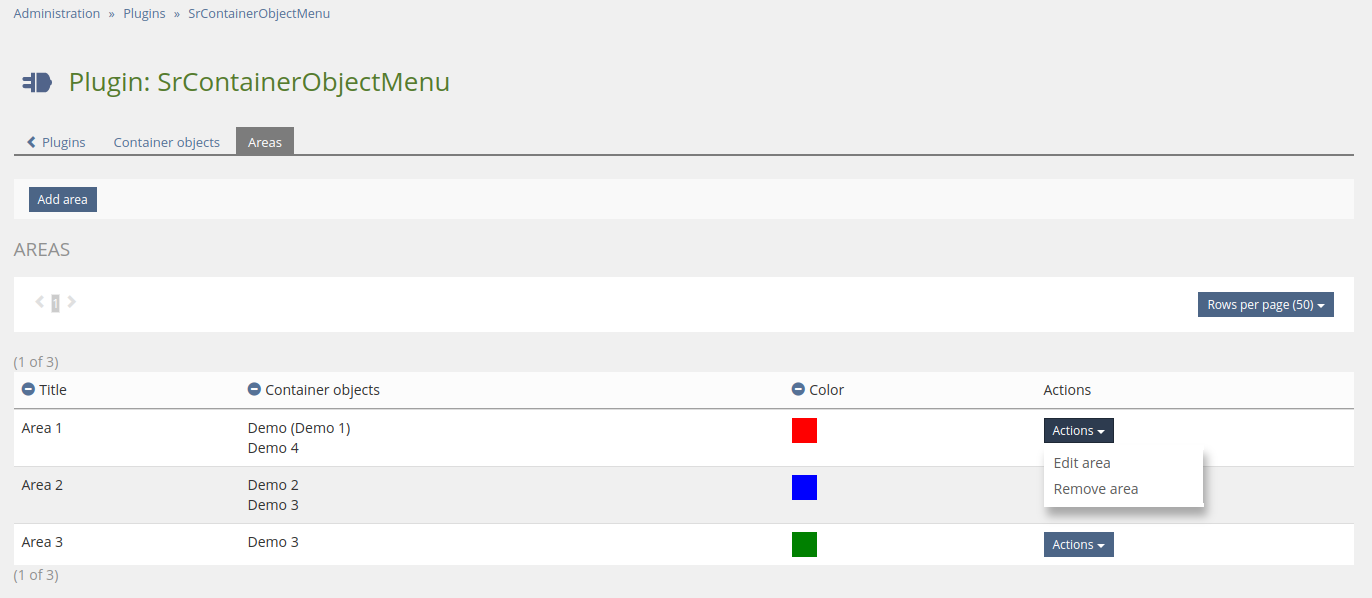
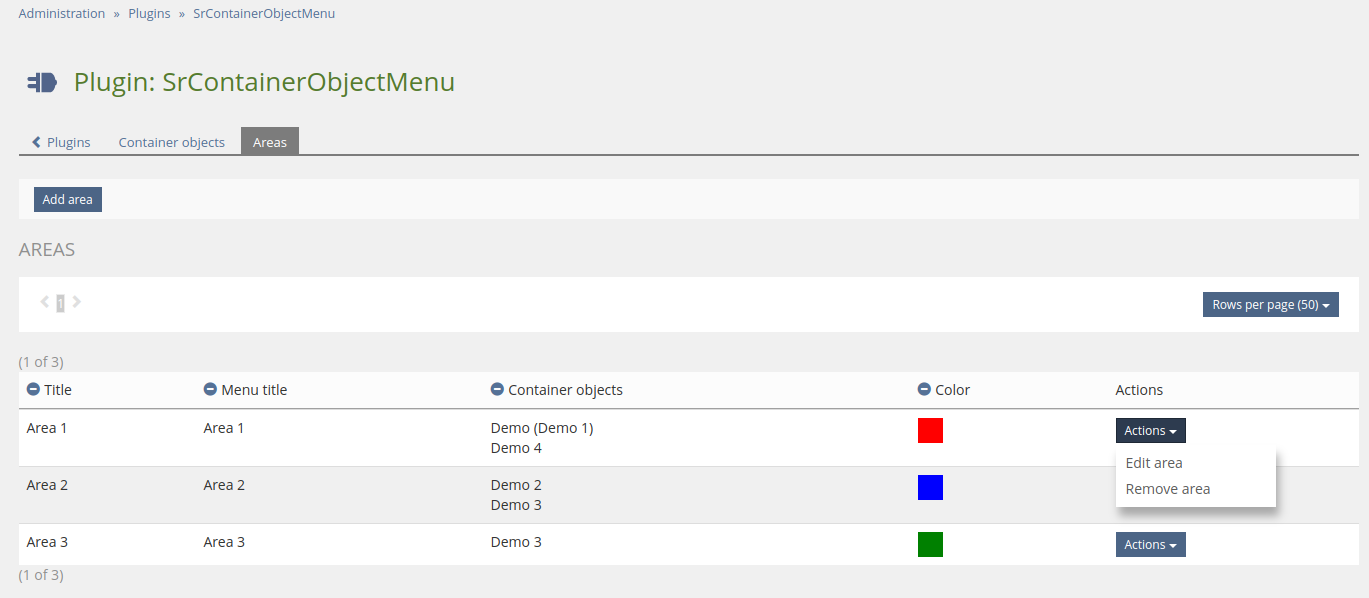
Show menu title of area in table

diff --git a/src/ContainerObject/Form/class.FormBuilder.php b/src/ContainerObject/Form/class.FormBuilder.php
@@ -3,6 +3,8 @@
 namespace srag\Plugins\SrContainerObjectMenu\ContainerObject\Form;
 
 use ilAdministrationGUI;
+use ilDBConstants;
+use ilMMTopItemGUI;
 use ilNonEditableValueGUI;
 use ilObjMainMenuGUI;
 use ilRepositorySelector2InputGUI;
@@ -58,12 +60,17 @@ class FormBuilder extends AbstractFormBuilder
     public function render() : string
     {
         if (!empty($this->container_object->getContainerObjectId())) {
-            self::dic()->ctrl()->setParameterByClass(ilObjMainMenuGUI::class, "ref_id", 69);
+            self::dic()
+                ->ctrl()
+                ->setParameterByClass(ilObjMainMenuGUI::class, "ref_id",
+                    self::dic()->database()->queryF('SELECT ref_id FROM object_data INNER JOIN object_reference ON object_data.obj_id=object_reference.obj_id WHERE type=%s',
+                        [ilDBConstants::T_TEXT], ["mme"])->fetchAssoc()["ref_id"]);
 
             $this->messages[] = self::dic()->ui()->factory()->messageBox()->info(self::plugin()->translate("info", ContainerObjectsCtrl::LANG_MODULE, [
                 self::output()->getHTML(self::dic()->ui()->factory()->link()->standard(self::dic()->language()->txt("obj_mme"), self::dic()->ctrl()->getLinkTargetByClass([
                     ilAdministrationGUI::class,
-                    ilObjMainMenuGUI::class
+                    ilObjMainMenuGUI::class,
+                    ilMMTopItemGUI::class
                 ])))
             ]));
         }
@@ -125,7 +132,7 @@ class FormBuilder extends AbstractFormBuilder
 
         $fields["areas"] = new InputGUIWrapperUIInputComponent(new MultiSelectSearchNewInputGUI(self::plugin()->translate("areas", AreasCtrl::LANG_MODULE)));
         $fields["areas"]->getInput()->setOptions(array_reduce(self::srContainerObjectMenu()->areas()->getAreas(), function (array $areas, Area $area) : array {
-            $areas[$area->getAreaId()] = $area->getTitle();
+            $areas[$area->getAreaId()] = $area->getTitle2();
 
             return $areas;
         }, []));

diff --git a/src/Area/Area.php b/src/Area/Area.php
@@ -5,6 +5,7 @@ namespace srag\Plugins\SrContainerObjectMenu\Area;
 use ActiveRecord;
 use arConnector;
 use ILIAS\UI\Component\Component;
+use ilMMItemFacadeInterface;
 use ilSrContainerObjectMenuPlugin;
 use srag\CustomInputGUIs\SrContainerObjectMenu\TabsInputGUI\MultilangualTabsInputGUI;
 use srag\DIC\SrContainerObjectMenu\DICTrait;
@@ -75,6 +76,17 @@ class Area extends ActiveRecord
     public static function returnDbTableName() : string
     {
         return self::TABLE_NAME;
+    }
+
+
+    /**
+     * @param int|null $position
+     *
+     * @return int
+     */
+    public function calcPosition(/*?*/ int $position = null) : int
+    {
+        return self::srContainerObjectMenu()->areas()->calcPosition($this, $position);
     }
 
 
@@ -230,6 +242,24 @@ class Area extends ActiveRecord
 
 
     /**
+     * @return ilMMItemFacadeInterface|null
+     */
+    public function getMenuItem()/* : ?ilMMItemFacadeInterface*/
+    {
+        return self::srContainerObjectMenu()->menu()->getBaseMenuItem($this->getMenuIdentifier($this->calcPosition()));
+    }
+
+
+    /**
+     * @return string
+     */
+    public function getMenuTitle() : string
+    {
+        return (($menu_item = $this->getMenuItem()) !== null ? $menu_item->getDefaultTitle() : "");
+    }
+
+
+    /**
      * @param string|null $lang_key
      * @param bool        $use_default_if_not_set
      *
@@ -238,6 +268,21 @@ class Area extends ActiveRecord
     public function getTitle(/*?*/ string $lang_key = null, bool $use_default_if_not_set = true) : string
     {
         return strval(MultilangualTabsInputGUI::getValueForLang($this->titles, $lang_key, "title", $use_default_if_not_set));
+    }
+
+
+    /**
+     * @return string
+     */
+    public function getTitle2() : string
+    {
+        $title = $this->getTitle();
+
+        if (!empty($menu_title = $this->getMenuTitle()) && $menu_title !== $title) {
+            $title .= " (" . $menu_title . ")";
+        }
+
+        return $title;
     }
 
 

diff --git a/src/Area/Form/FormBuilder.php b/src/Area/Form/FormBuilder.php
@@ -2,6 +2,10 @@
 
 namespace srag\Plugins\SrContainerObjectMenu\Area\Form;
 
+use ilAdministrationGUI;
+use ilDBConstants;
+use ilMMSubItemGUI;
+use ilObjMainMenuGUI;
 use ilSrContainerObjectMenuPlugin;
 use ilTextInputGUI;
 use srag\CustomInputGUIs\SrContainerObjectMenu\ColorPickerInputGUI\ColorPickerInputGUI;
@@ -47,6 +51,31 @@ class FormBuilder extends AbstractFormBuilder
         $this->area = $area;
 
         parent::__construct($parent);
+    }
+
+
+    /**
+     * @inheritDoc
+     */
+    public function render() : string
+    {
+        if (!empty($this->area->getAreaId())) {
+            self::dic()
+                ->ctrl()
+                ->setParameterByClass(ilObjMainMenuGUI::class, "ref_id",
+                    self::dic()->database()->queryF('SELECT ref_id FROM object_data INNER JOIN object_reference ON object_data.obj_id=object_reference.obj_id WHERE type=%s',
+                        [ilDBConstants::T_TEXT], ["mme"])->fetchAssoc()["ref_id"]);
+
+            $this->messages[] = self::dic()->ui()->factory()->messageBox()->info(self::plugin()->translate("info", ContainerObjectsCtrl::LANG_MODULE, [
+                self::output()->getHTML(self::dic()->ui()->factory()->link()->standard(self::dic()->language()->txt("obj_mme"), self::dic()->ctrl()->getLinkTargetByClass([
+                    ilAdministrationGUI::class,
+                    ilObjMainMenuGUI::class,
+                    ilMMSubItemGUI::class
+                ])))
+            ]));
+        }
+
+        return parent::render();
     }
 
 

diff --git a/src/Area/Repository.php b/src/Area/Repository.php
@@ -33,6 +33,10 @@ final class Repository
      */
     protected $areas_by_id = [];
     /**
+     * @var int[]
+     */
+    protected $calc_positions = [];
+    /**
      * @var string[]
      */
     protected $menu_identifiers = [];
@@ -61,6 +65,28 @@ final class Repository
 
 
     /**
+     * @param Area     $area
+     * @param int|null $position
+     *
+     * @return int
+     */
+    public function calcPosition(Area $area,/*?*/ int $position = null) : int
+    {
+        if ($this->calc_positions[$area->getAreaId()] === null) {
+            if ($position === null) {
+                $position = intval(key(array_filter($this->getAreas(), function (Area $area_) use ($area) : bool {
+                    return ($area_->getAreaId() === $area->getAreaId());
+                })));
+            }
+
+            $this->calc_positions[$area->getAreaId()] = (($position + 1) * 10);
+        }
+
+        return $this->calc_positions[$area->getAreaId()];
+    }
+
+
+    /**
      * @param Area $area
      */
     public function deleteArea(Area $area)/* : void*/
@@ -85,6 +111,7 @@ final class Repository
 
         unset($this->areas_by_id[$area->getAreaId()]);
         $this->areas = [];
+        $this->calc_positions = [];
     }
 
 
@@ -205,5 +232,6 @@ final class Repository
 
         $this->areas_by_id[$area->getAreaId()] = $area;
         $this->areas = [];
+        $this->calc_positions = [];
     }
 }

diff --git a/src/Area/Table/TableBuilder.php b/src/Area/Table/TableBuilder.php
@@ -62,6 +62,8 @@ class TableBuilder extends AbstractTableBuilder
             self::plugin()->translate("areas", AreasCtrl::LANG_MODULE), [
                 self::dataTableUI()->column()->column("title",
                     self::plugin()->translate("title", AreasCtrl::LANG_MODULE))->withSortable(false),
+                self::dataTableUI()->column()->column("menu_title",
+                    self::plugin()->translate("menu_title", ContainerObjectsCtrl::LANG_MODULE))->withSortable(false),
                 self::dataTableUI()->column()->column("container_objects_title",
                     self::plugin()->translate("container_objects", ContainerObjectsCtrl::LANG_MODULE))->withSortable(false)->withFormatter(new class() extends DefaultFormatter {
 

diff --git a/src/Menu/BaseMenu.php b/src/Menu/BaseMenu.php
@@ -91,7 +91,7 @@ abstract class BaseMenu extends AbstractStaticPluginMainMenuProvider
 
                     return $sub_items;
                 }, []), array_map(function (int $position, Area $area) : isItem {
-                $position = (($position + 1) * 10);
+                $position = $area->calcPosition($position);
 
                 self::dic()->ctrl()->setParameterByClass(SelectAreaCtrl::class, SelectAreaCtrl::GET_PARAM_AREA_ID, $area->getAreaId());
 

diff --git a/src/ContainerObject/ContainerObject.php b/src/ContainerObject/ContainerObject.php
@@ -171,7 +171,7 @@ class ContainerObject extends ActiveRecord
     public function getAreasTitle() : string
     {
         return nl2br(implode("\n", array_map(function (Area $area) : string {
-            return $area->getTitle();
+            return $area->getTitle2();
         }, $this->getAreas())), false);
     }
 

diff --git a/plugin.php b/plugin.php
@@ -4,7 +4,7 @@
 require_once __DIR__ . "/vendor/autoload.php";
 
 $id = "srcontobjmenu";
-$version = "2.3.5";
+$version = "2.3.6";
 $ilias_min_version = "5.4.0";
 $ilias_max_version = "6.999";
 $responsible = "studer + raimann ag - Team Custom 1";

diff --git a/CHANGELOG.md b/CHANGELOG.md
@@ -1,5 +1,8 @@
 # Changelog
 
+## [2.3.6]
+- Show menu title of area in table
+
 ## [2.3.5]
 - Make selected area title work in CSS
 
